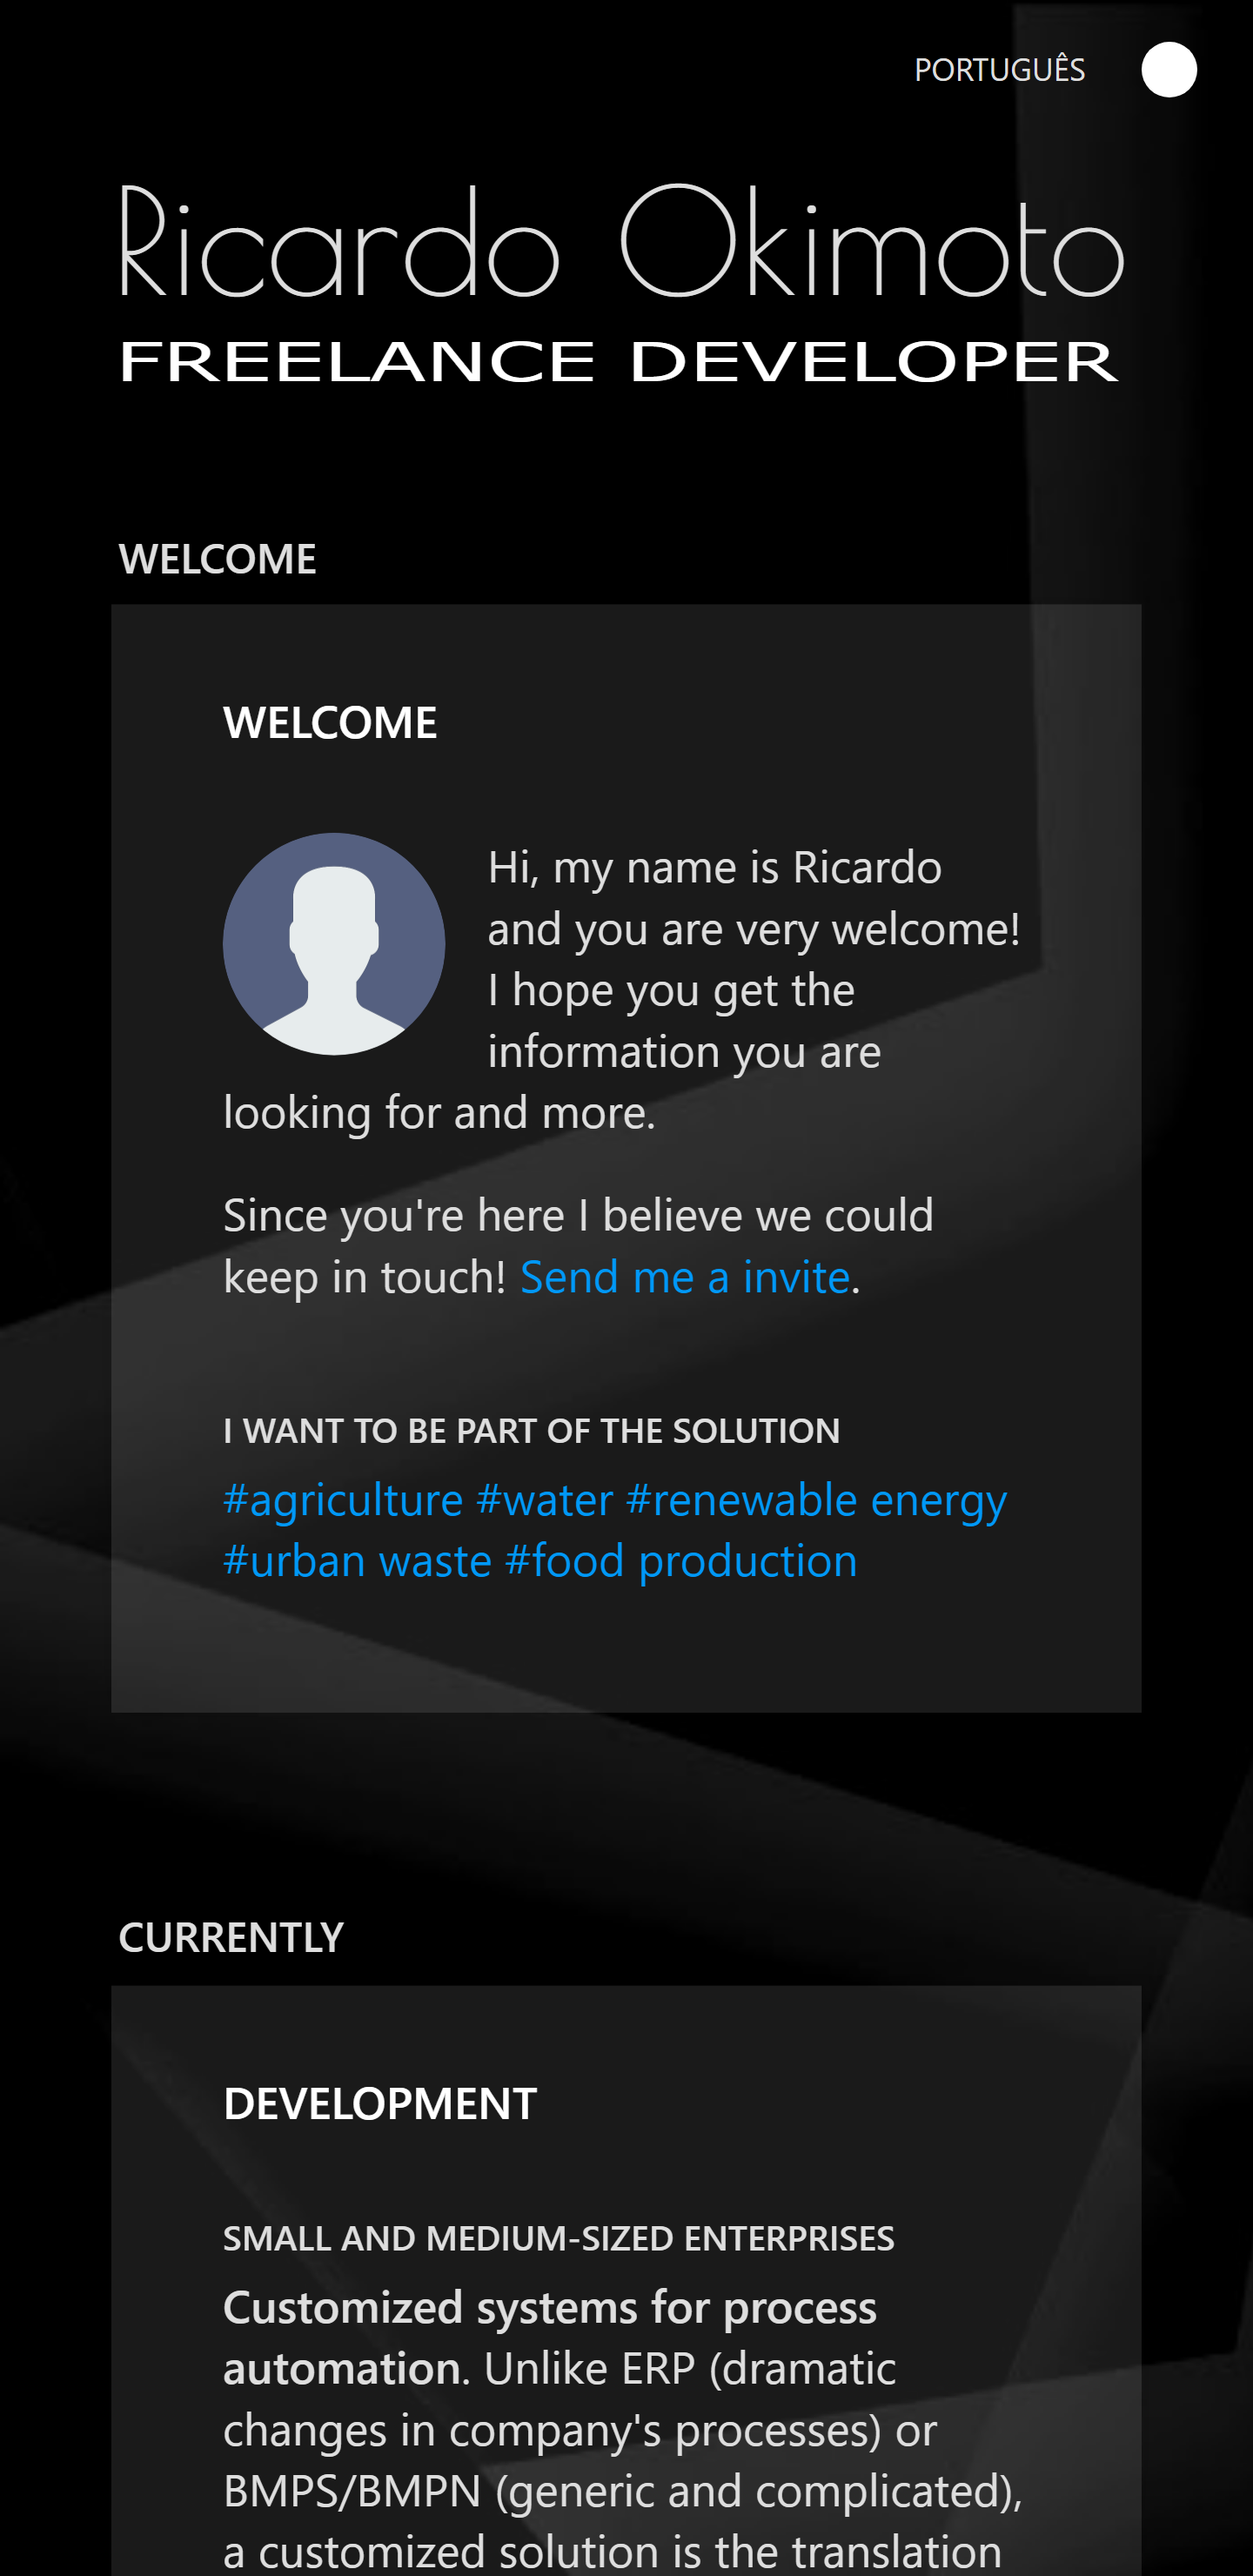
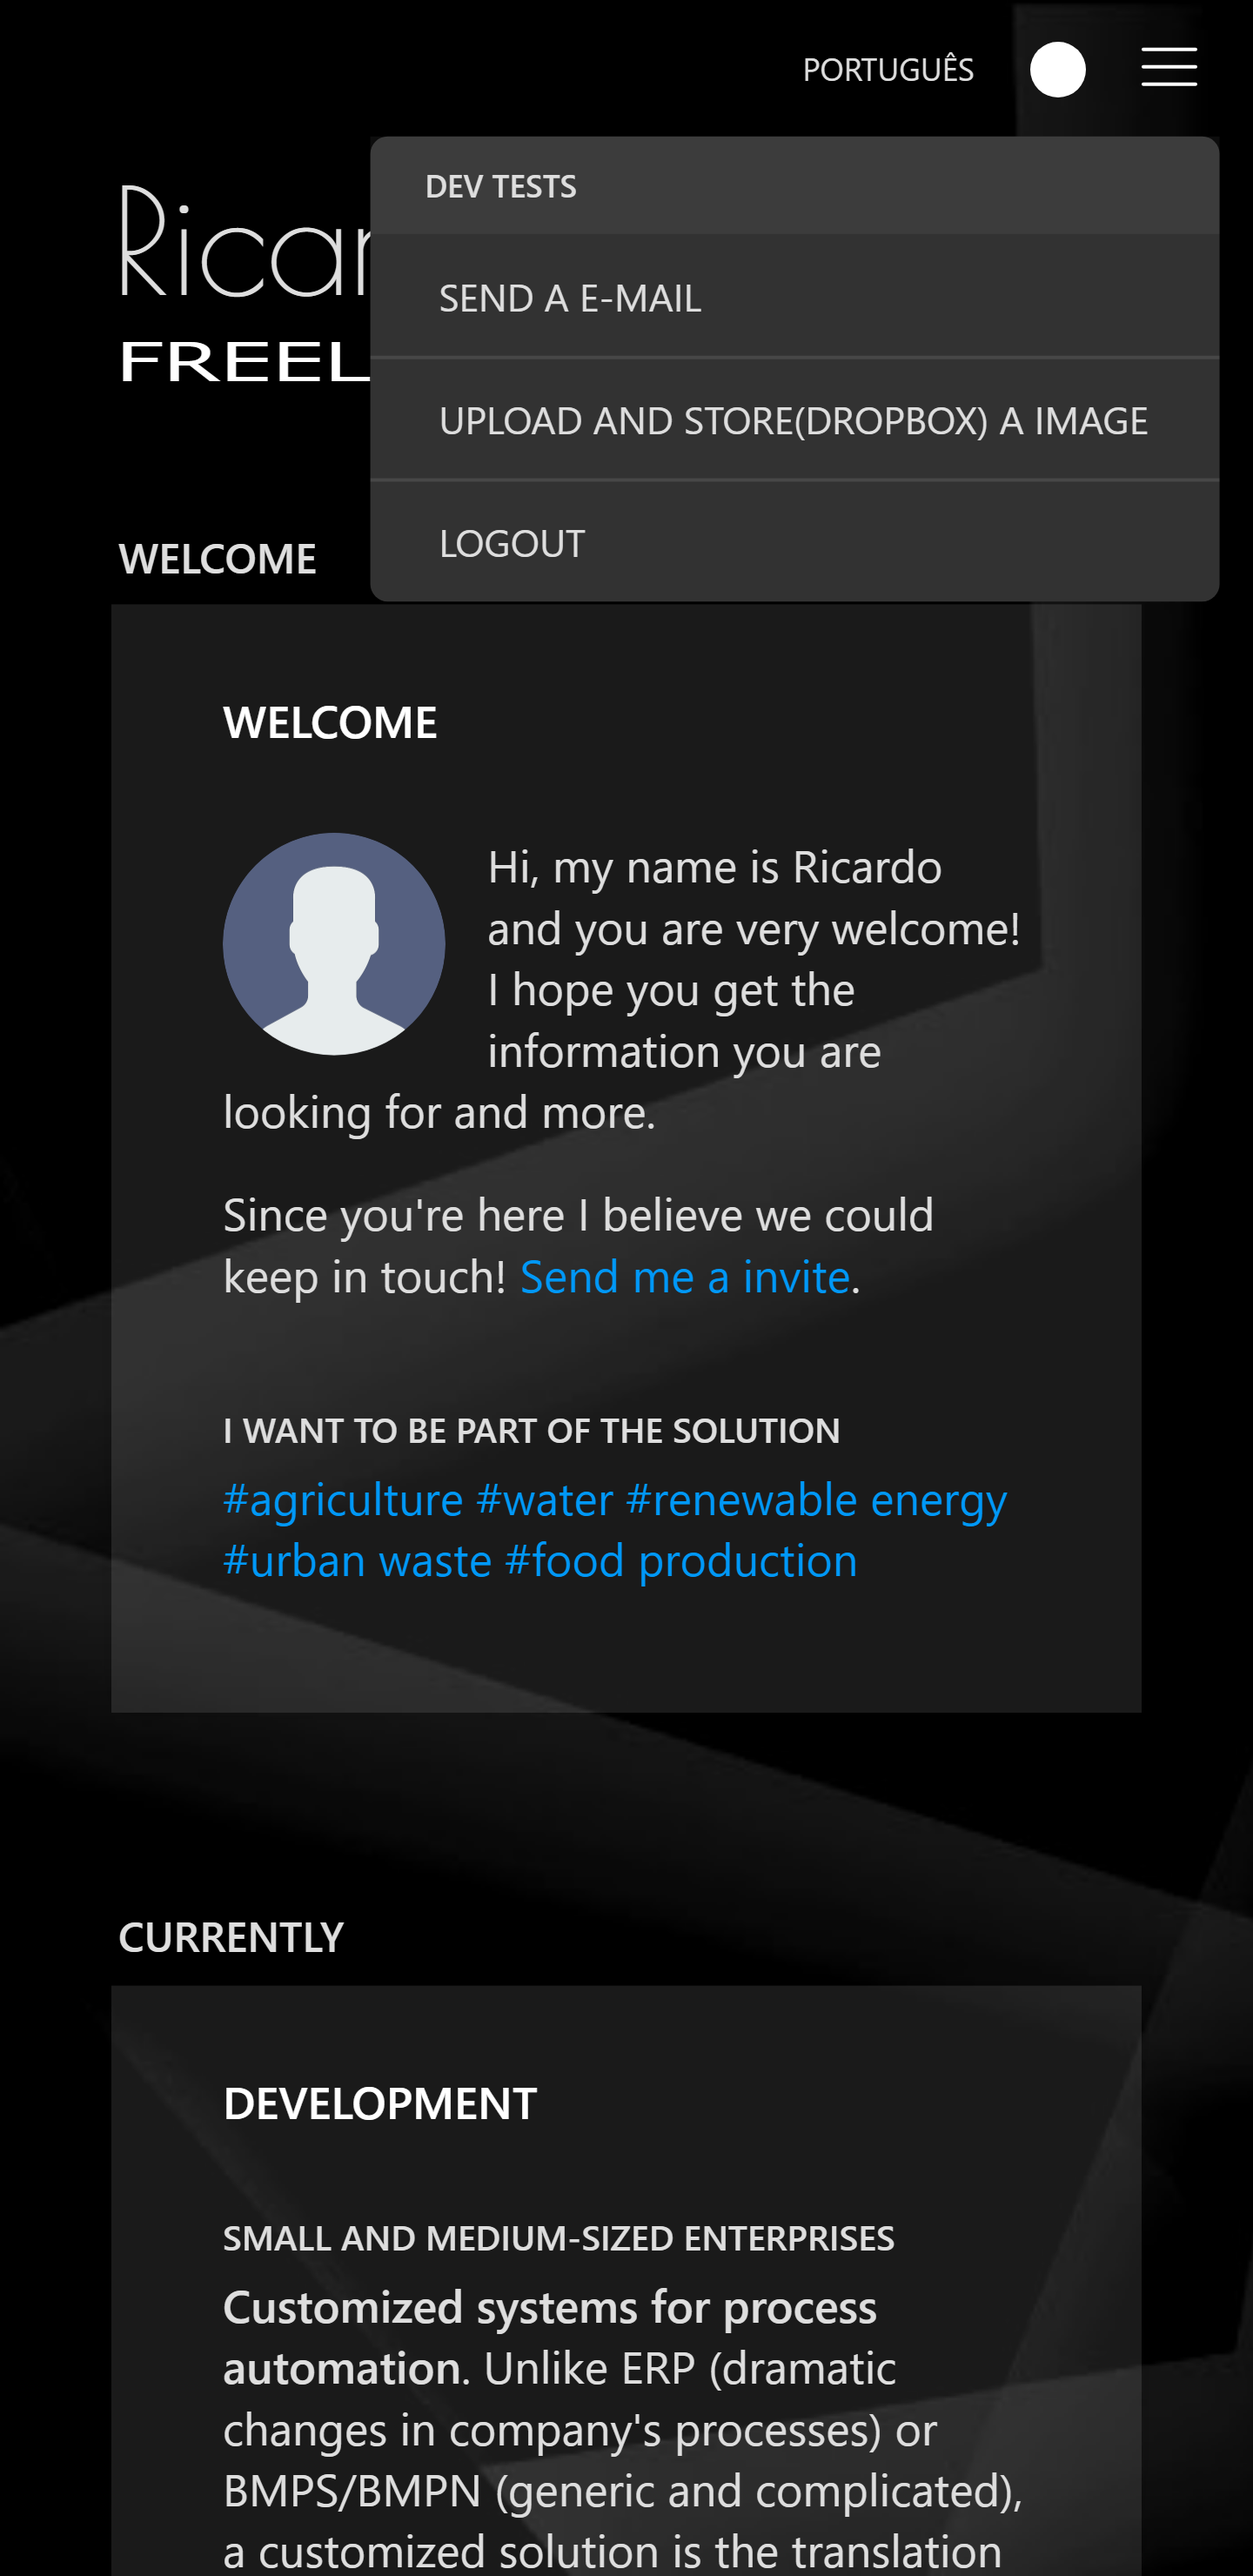
updates

Changed region(s): [[0.2812, 0.0, 1.0, 0.2486]]

diff --git a/src/App.css b/src/App.css
@@ -82,7 +82,8 @@ input[type="submit"].fullwidth {
   padding: 32px 96px 0px 96px;
 }
 #app header .options {
-  position: fixed;
+  z-index: 1;
+  position: absolute;
   top: 0px;
   right: 0px;
   padding: 6px 6px 6px 16px;

diff --git a/README.md b/README.md
@@ -13,11 +13,9 @@ This project has some of the features I use in most of my full-stack (Customized
 ### Screens
 
 <p align="center">
-<img src="src/assets/images/screen-d-l.png" width="96%"/>
-</p>
-<p align="center">
-<img src="src/assets/images/screen-m-d.png" width="48%"/>
-<img src="src/assets/images/screen-m-l.png" width="48%"/>
+    <img src="src/assets/images/screen-d-d.png" width="50%"/>
+    <img src="src/assets/images/screen-m-d.png" width="22%"/>
+    <img src="src/assets/images/screen-email-m-d.png" width="22%"/>
 </p>
 
 ## What is needed
